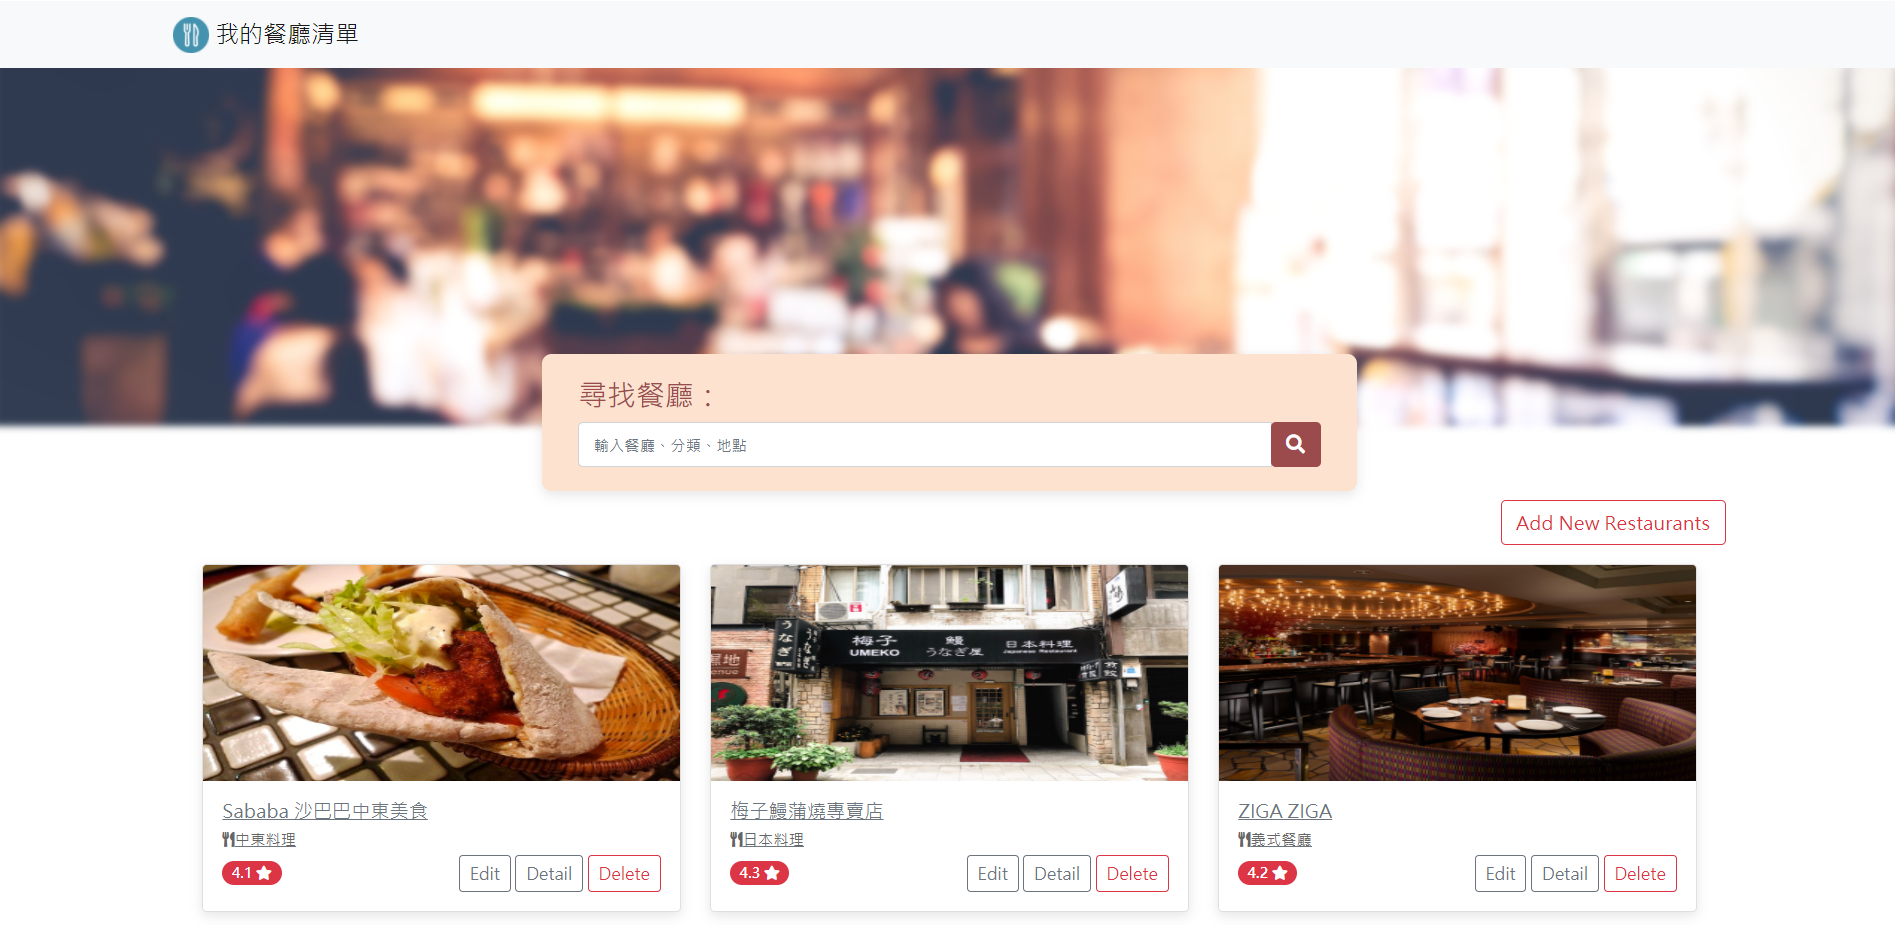
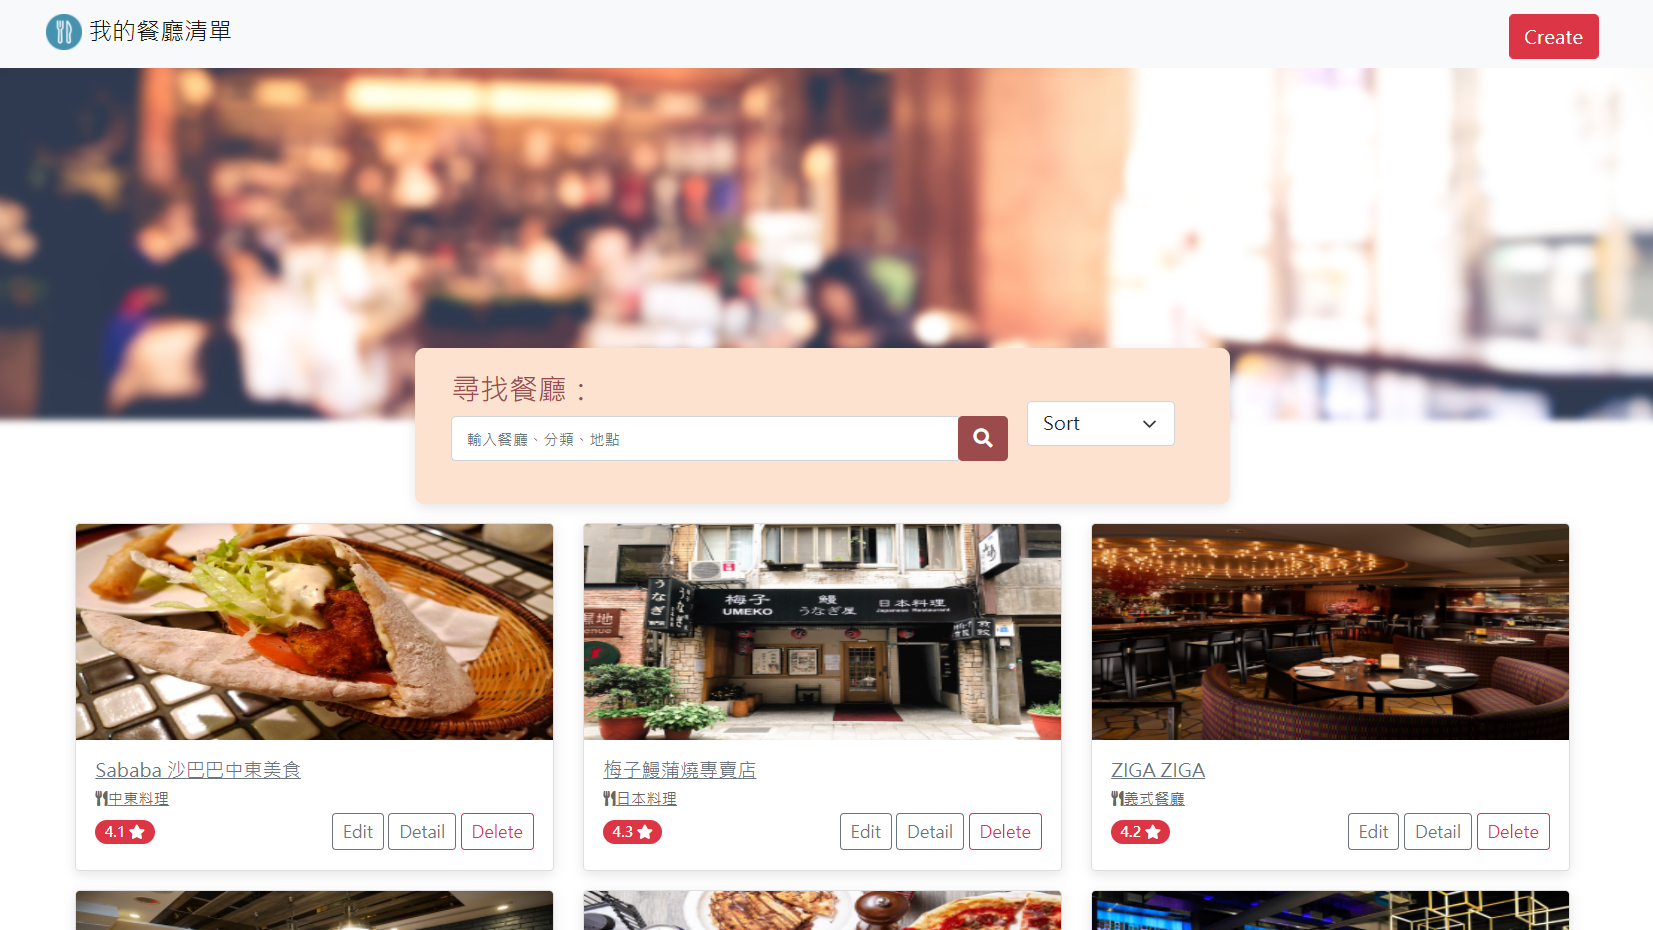
feat: add README

diff --git a/README.md b/README.md
@@ -1,17 +1,18 @@
-# AC學期2-3_A6_Q1_Restaurant_List2.0
+# AC學期2-3_A8_Q1_Restaurant_List3.0
 
-AlphaCamp學期2-3，A6作業專案的Restaurant_List2.0，  
+AlphaCamp學期2-3，A8作業專案的Restaurant_List3.0，  
 使用 Node.js , Express , express-handlebars 打造的餐廳美食網站。
 
 ## 功能描述
 
-- 可在搜尋列輸入「餐廳名稱」、「餐廳分類」、「餐廳地點」，便可搜索出相關餐廳。
-- 如無相關搜索餐廳的話，會顯示「請繼續搜尋」等字眼。
-- 檢視餐廳詳細資訊包含類別、地址、電話、評分、圖片及 Google Map。
-- 具RWD，在手機版的螢幕尺寸時，可以一行一張卡片瀏覽。
+- 可在搜尋列輸入「餐廳名稱」、「餐廳分類」、「餐廳地點」，便可搜索出相關餐廳
+- 如無相關搜索餐廳的話，會顯示「請繼續搜尋」等字眼
+- 檢視餐廳詳細資訊包含類別、地址、電話、評分、圖片及 Google Map
+- 具RWD，在手機版的螢幕尺寸時，可以一行一張卡片瀏覽
 - 使用者可以新增一家餐廳
 - 使用者可以修改一家餐廳的資訊
 - 使用者可以刪除一家餐廳
+- 使用者可根據「地點」、「降冪」、「升冪」、「類別」進行排序
 
 ## Screenshots
 
@@ -56,6 +57,7 @@ npm run dev  //執行程式
 - [Express](https://www.npmjs.com/package/express)
 - [Express-Handlebars](https://www.npmjs.com/package/express-handlebars)
 - [body-parser](https://www.npmjs.com/package/body-parser)
+- [method-override](https://www.npmjs.com/package/method-override)
 - [nodemon](https://www.npmjs.com/package/nodemon)
 
 
